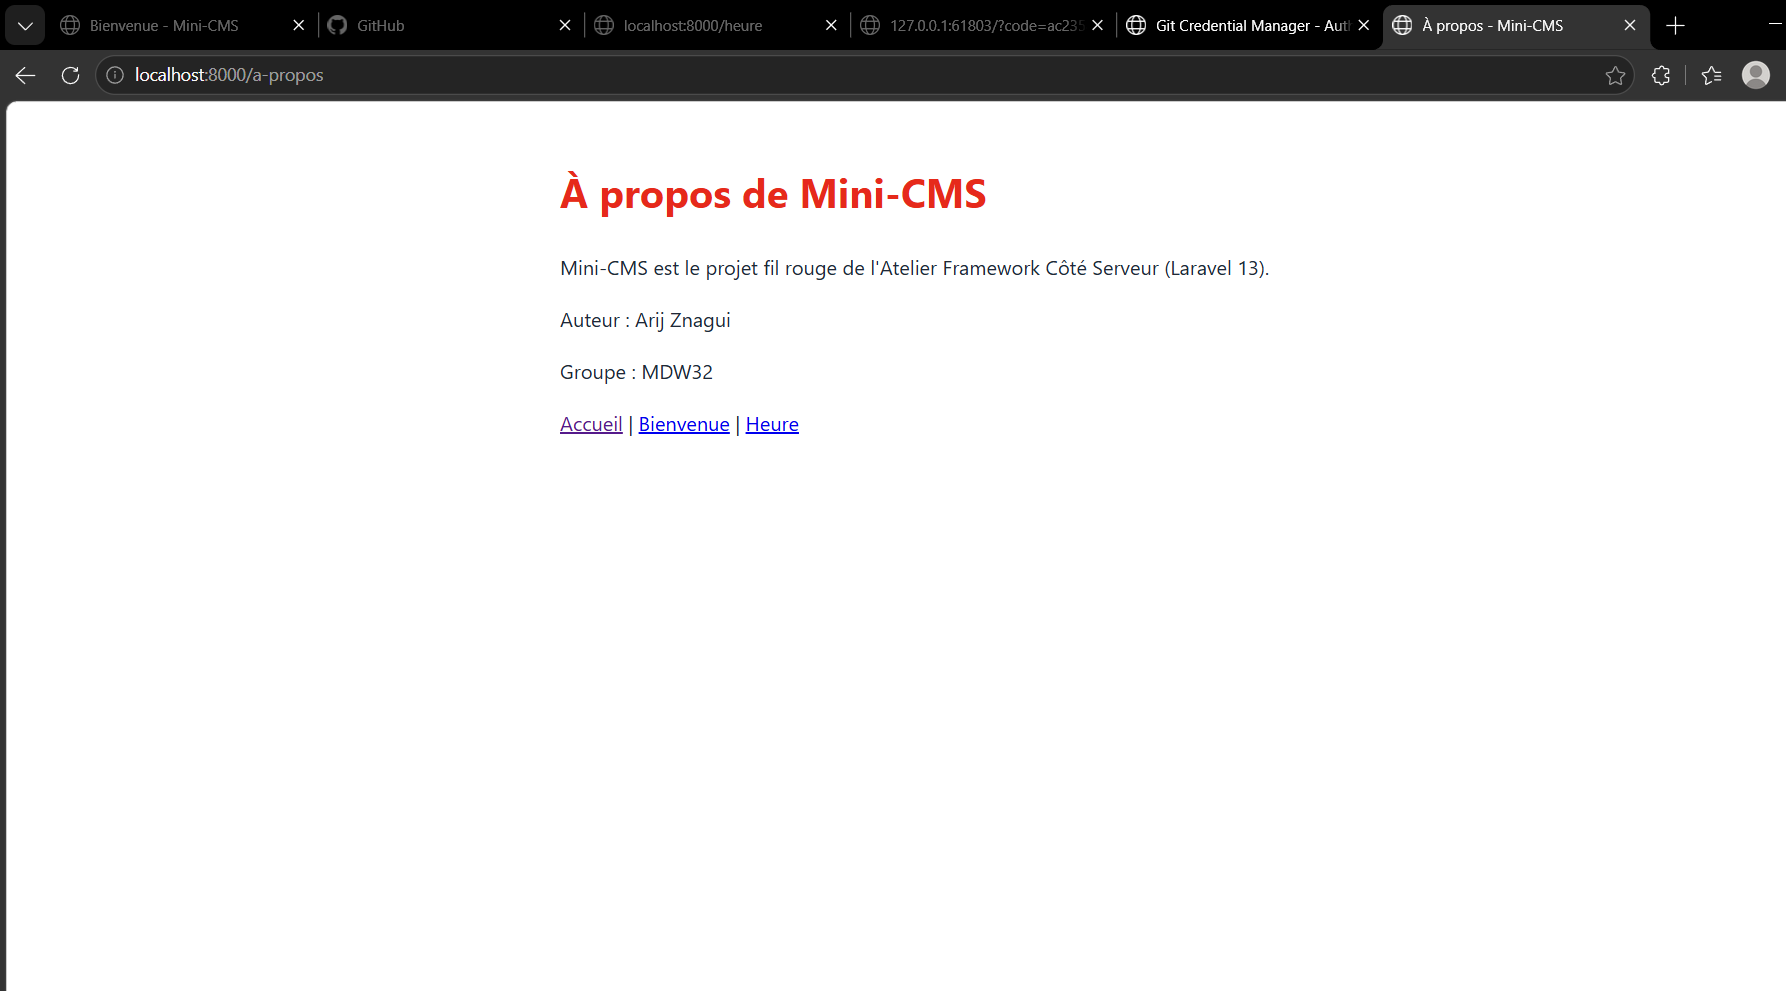
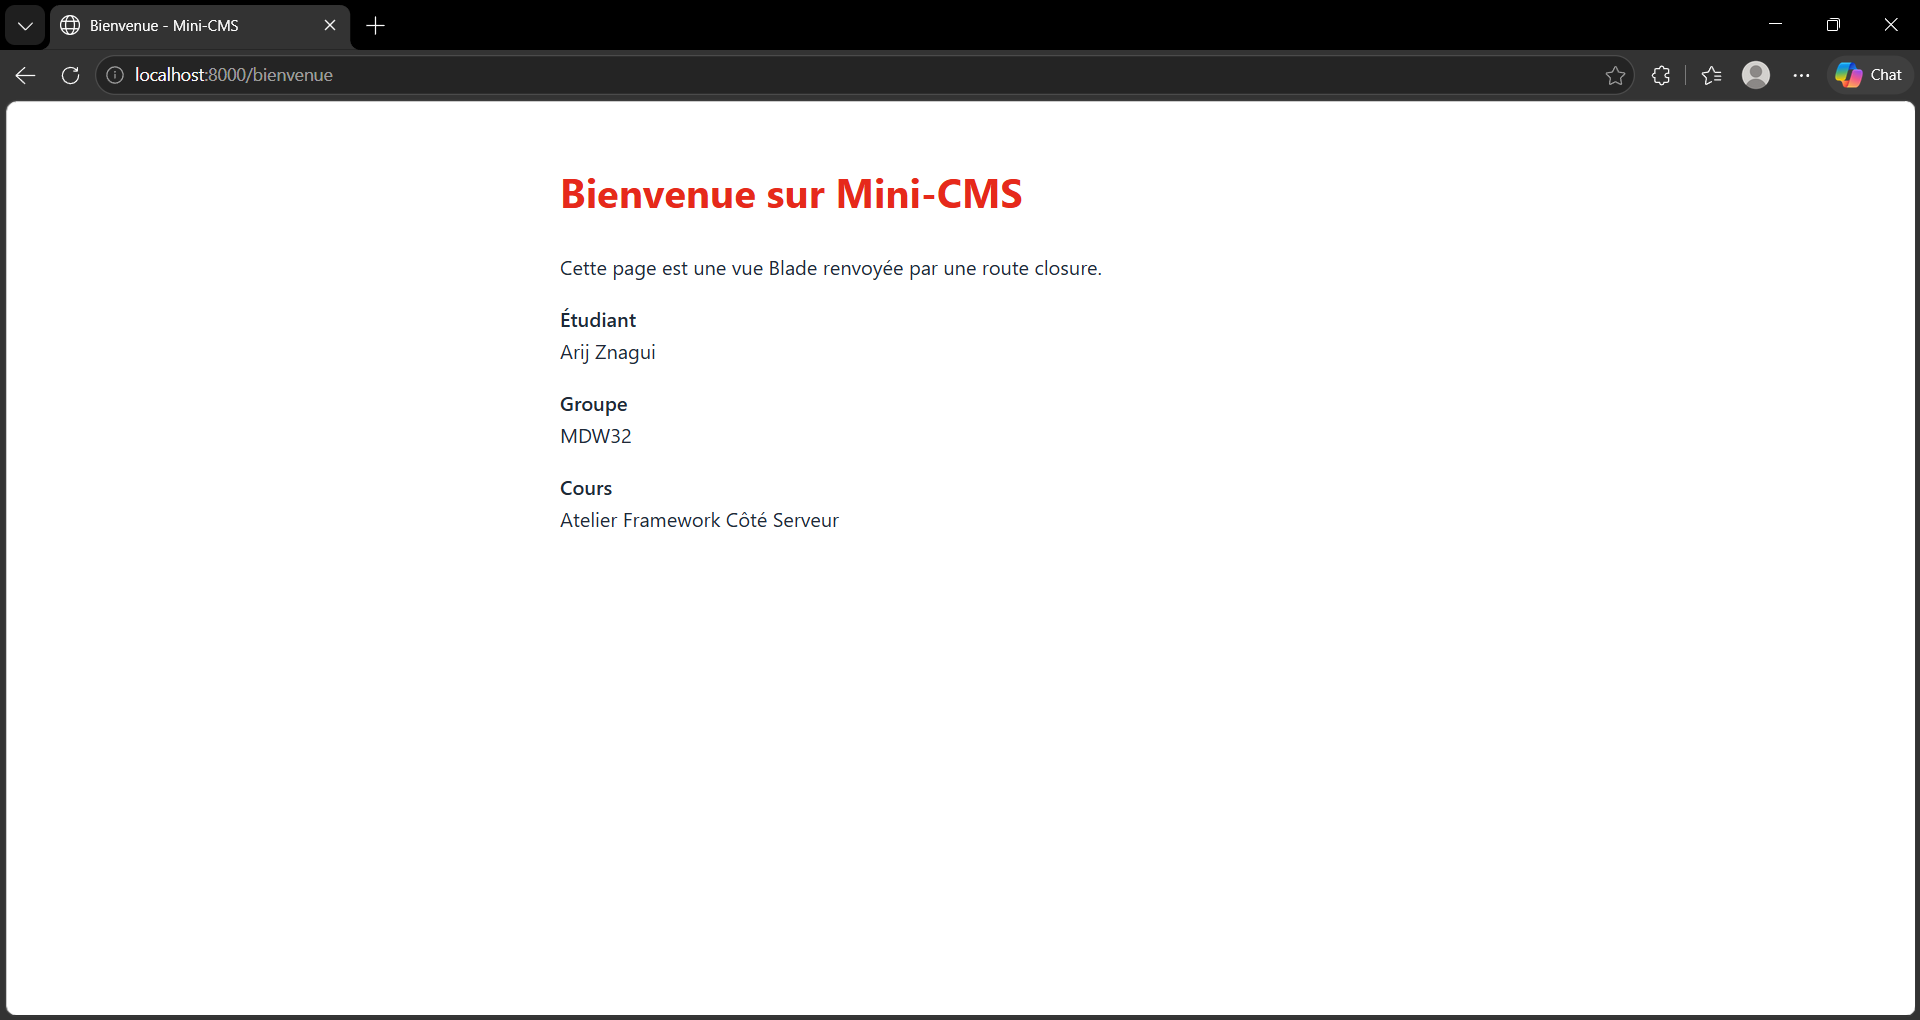
Ajouter toutes les captures d'ecran de la session 01 et 02

diff --git a/notes/s02-git.md b/notes/s02-git.md
@@ -1,0 +1,42 @@
+# Mini-CMS
+
+Projè fil rouge de l'Atelier Framework Côté Serveur (Laravel 13, PHP 8.3+), 3e année MDW, ISET Sidi Bouzid.
+
+Otor : Arij Znagui, grup MDW32.
+
+Mini-CMS ɛvawwolu afte di semès pas tu wan smɔl platfɔm fɔ poblikeshɔn: pej poblik, baks-ofis otɛntifik, API JSON ɛn tɛst Pɛst. Evri seshɔn ɛn wit wan tag Git (`lab-01`, `lab-01b`, ɛn afta wan tag fɔ evri seshɔn).
+
+## Stet aktuwal (tag lab-01b)
+- Rut fɔ kloshyɔn: `/`, `/bonjour`, `/bonjour-court`, `/bienvenue`, `/version`, `/heure` ɛn `/a-propos`.
+- Vyu Blad: `bienvenue`, `heure` ɛn `a-propos`.
+- Bes di done SQLite lokal (`database/database.sqlite`, no vɛrshɔn).
+
+## Rut we de
+| Metod | URI | Rèpons |
+|---|---|---|
+| GET | `/` | Vyu wɛlkɔm (pej d'akeyi par defo de Laravel) |
+| GET | `/bonjour` | Shen de tɛks « Bonjour MDW3 ! Voici ma première route Laravel 13. » |
+| GET | `/bonjour-court` | Shen de tɛks, eklit avɛk wan fɔnshɔn fleyis |
+| GET | `/bienvenue` | Vyu bienvenue avɛk di nem de l'étudiant, le groupe et le cours |
+| GET | `/version` | Shen avɛk di vɛrshɔn de Laravel et celle de PHP |
+| GET | `/heure` | Vyu heure avɛk l'heure (format H:i) et la date (format d/m/Y) |
+| GET | `/a-propos` | Vyu a-propos avɛk le nom de l'auteur et le groupe |
+
+## Prerekwizi
+- PHP ɛn Komposa (PHP 8.3 o pas di https://www.php.net/downloads, avɛk di eksteshɔn kɛl, faylinfo, mbstring, openssl, pdo_sqlite, sqlite3 ɛn zip aktivi di php.ini, ɛn Komposa di https://getcomposer.org).
+- Node.js LTS ɛn npm.
+- Git.
+
+## Instaleshɔn
+
+### Bash (Git Bash, makOS, Linux)
+```bash
+git clone [https://github.com/areej-z/mini-cms.git](https://github.com/areej-z/mini-cms.git)
+cd mini-cms
+composer install
+npm install
+cp .env.example .env
+php artisan key:generate
+touch database/database.sqlite
+php artisan migrate
+composer run dev
